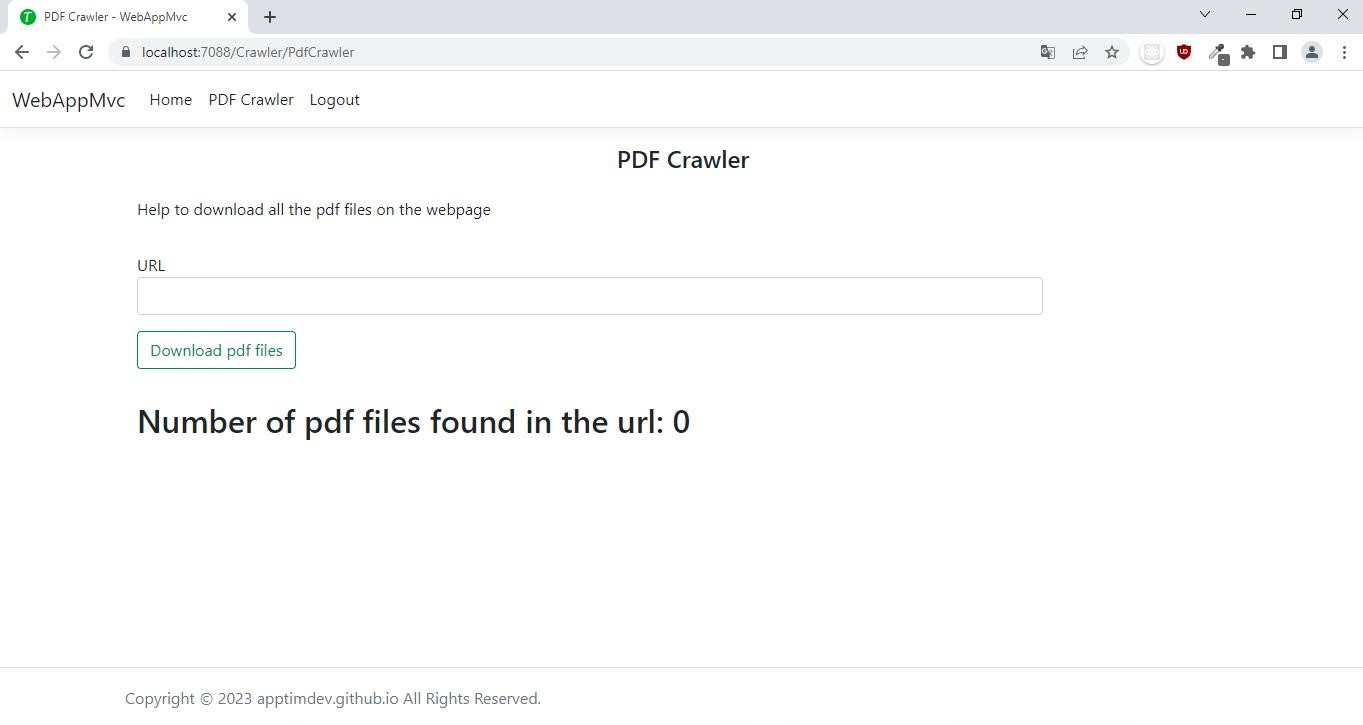
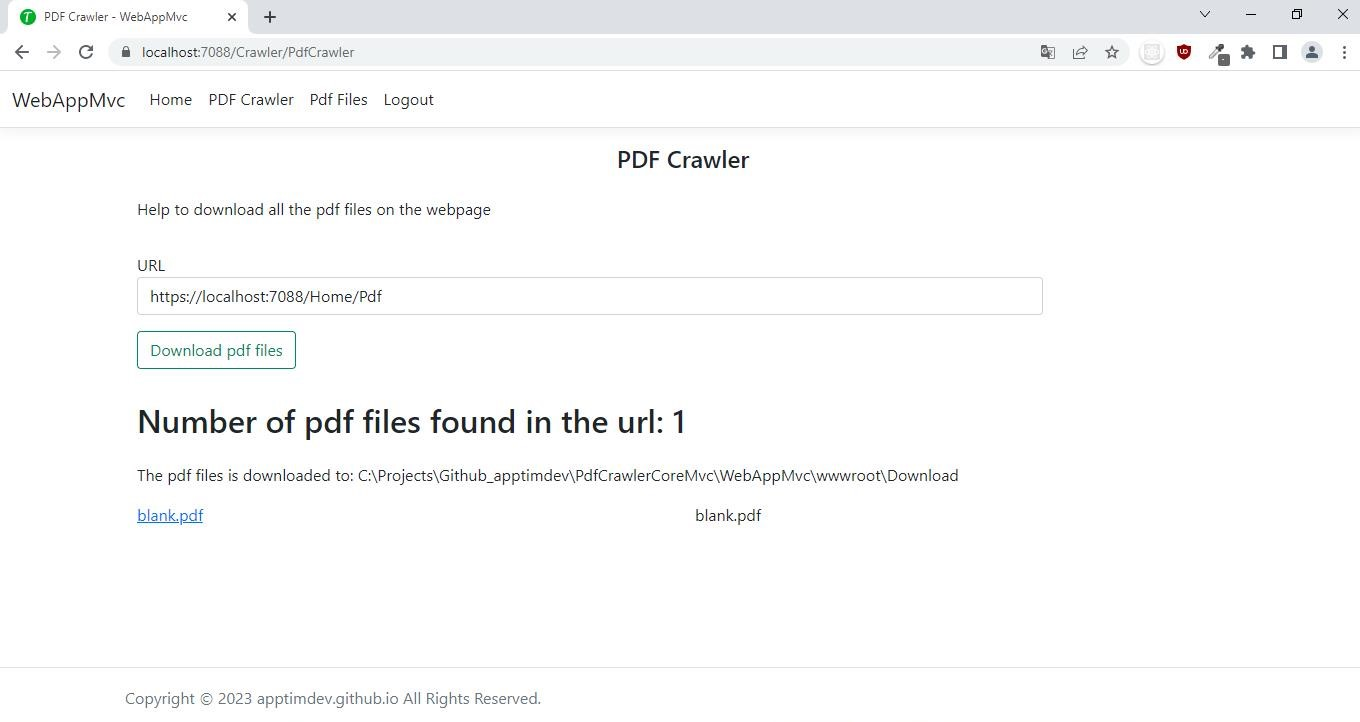
pdf

diff --git a/WebAppMvc/Helpers/Crawler.cs b/WebAppMvc/Helpers/Crawler.cs
@@ -8,13 +8,14 @@ using System.Drawing.Imaging;
 using System.IO;
 using System.Linq;
 using System.Threading.Tasks;
+using log4net;
 
 namespace WebAppMvc.Helpers
 {
     public static class Crawler
     {
         private static string _userAgent = "Mozilla/5.0 (Windows NT 10.0; Win64; x64) AppleWebKit/537.36 (KHTML, like Gecko) Chrome/102.0.0.0 Safari/537.36";
-        //private static ILog _logger = LogManager.GetLogger(System.Reflection.MethodBase.GetCurrentMethod().DeclaringType);
+        private static ILog _logger = LogManager.GetLogger(System.Reflection.MethodBase.GetCurrentMethod().DeclaringType);
         public static string GetHtml(Uri url)
         {
             StreamReader streamReader = null;
@@ -73,8 +74,8 @@ namespace WebAppMvc.Helpers
             }
             catch (Exception e)
             {
-                //_logger.Info($"DownloadImage fail, url:{url.ToString()}");
-                //_logger.Error(e);
+                _logger.Info($"DownloadImage fail, url:{url.ToString()}");
+                _logger.Error(e);
                 return null;
             }
             return result;
@@ -130,19 +131,19 @@ namespace WebAppMvc.Helpers
                     }
                     else
                     {
-                        //_logger.Info($"SaveWebImage: no image is downloaded!!");
-                        //_logger.Info($"downloadPath: {downloadPath}");
-                        //_logger.Info($"outputfilepath: {outputfilepath}");
+                        _logger.Info($"SaveWebImage: no image is downloaded!!");
+                        _logger.Info($"downloadPath: {downloadPath}");
+                        _logger.Info($"outputfilepath: {outputfilepath}");
                         throw new Exception("SaveWebImage: no image is downloaded!!");
                     }
                 }
             }
             catch (Exception e)
             {
-                //_logger.Info($"SaveWebImage fail!!");
-                //_logger.Info($"downloadPath: {downloadPath}");
-                //_logger.Info($"outputfilepath: {outputfilepath}");
-                //_logger.Error(e);
+                _logger.Info($"SaveWebImage fail!!");
+                _logger.Info($"downloadPath: {downloadPath}");
+                _logger.Info($"outputfilepath: {outputfilepath}");
+                _logger.Error(e);
                 //rethrow exception
                 throw;
             }
@@ -153,6 +154,7 @@ namespace WebAppMvc.Helpers
         {
             try
             {
+                _logger.Info("SaveWebPdf");
                 using (WebClient wc = new WebClient())
                 {
                     wc.Credentials = System.Net.CredentialCache.DefaultCredentials;
@@ -162,10 +164,10 @@ namespace WebAppMvc.Helpers
             }
             catch (Exception e)
             {
-                //_logger.Info($"SaveWebPdf fail!!");
-                //_logger.Info($"downloadPath: {downloadPath}");
-                //_logger.Info($"outputfilepath: {outputfilepath}");
-                //_logger.Error(e);
+                _logger.Info($"SaveWebPdf fail!!");
+                _logger.Info($"downloadPath: {downloadPath}");
+                _logger.Info($"outputfilepath: {outputfilepath}");
+                _logger.Error(e);
                 //rethrow exception
                 throw;
             }
@@ -187,11 +189,11 @@ namespace WebAppMvc.Helpers
                             }
                             catch (Exception e)
                             {
-                                //_logger.Info($"SaveWebPdfs Inside Parallel!!");
-                                //_logger.Info($"downloadPath: {pdf.downloadPath}");
-                                //_logger.Info($"outputfilepath: {pdf.outputfilepath}");
-                                //_logger.Error(e);
-                                //_logger.Info($"SaveWebPdfs Inside Parallel!! end");
+                                _logger.Info($"SaveWebPdfs Inside Parallel!!");
+                                _logger.Info($"downloadPath: {pdf.downloadPath}");
+                                _logger.Info($"outputfilepath: {pdf.outputfilepath}");
+                                _logger.Error(e);
+                                _logger.Info($"SaveWebPdfs Inside Parallel!! end");
                                 //rethrow exception
                                 //throw;  
                                 //throw exception only stop part of Parallel, other can still run
@@ -201,9 +203,9 @@ namespace WebAppMvc.Helpers
                     }
                     catch (Exception e)
                     {
-                        //_logger.Info($"SaveWebPdfs Inside task!!");
-                        //_logger.Error(e);
-                        //_logger.Info($"SaveWebPdfs Inside task!! end");
+                        _logger.Info($"SaveWebPdfs Inside task!!");
+                        _logger.Error(e);
+                        _logger.Info($"SaveWebPdfs Inside task!! end");
                         //rethrow exception
                         throw;  //will not throw exception outside task and be catch
                     }
@@ -212,8 +214,8 @@ namespace WebAppMvc.Helpers
             catch (Exception e)
             {
                 //cannot be catch if Inside task throw exception
-                //_logger.Info($"SaveWebPdfs fail!!");
-                //_logger.Error(e);
+                _logger.Info($"SaveWebPdfs fail!!");
+                _logger.Error(e);
                 //rethrow exception
                 throw;
             }

diff --git a/WebAppMvc/Controllers/HomeController.cs b/WebAppMvc/Controllers/HomeController.cs
@@ -1,6 +1,9 @@
 using Microsoft.AspNetCore.Mvc;
 using System.Diagnostics;
 using WebAppMvc.Models;
+using WebAppMvc.Extensions;
+using WebAppMvc.ViewModels;
+using System.IO;
 
 namespace WebAppMvc.Controllers
 {
@@ -21,10 +24,24 @@ namespace WebAppMvc.Controllers
 
         public IActionResult Pdf()
         {
+            PdfViewModel vm = new PdfViewModel();
             string webRootPath = _webHostEnvironment.WebRootPath;
             string dir = Path.Combine(webRootPath, "Download");
-
-            return View();
+            //_logger.Info(dir);
+            if (Directory.Exists(dir))
+            {
+                DirectoryInfo dirInfo = new DirectoryInfo(dir);
+                foreach (FileInfo f in dirInfo.GetFiles("*.pdf", SearchOption.TopDirectoryOnly))
+                {
+                    _logger.Info(f.FullName);
+                    _logger.Info(f.Name);
+                    PdfFile pdf = new PdfFile();
+                    pdf.FileName = f.Name;
+                    pdf.DownloadPath = $"/Download/{f.Name}";
+                    vm.PdfFiles.Add(pdf);
+                }
+            }
+            return View(vm);
         }
 
         [ResponseCache(Duration = 0, Location = ResponseCacheLocation.None, NoStore = true)]

diff --git a/WebAppMvc/Controllers/CrawlerController.cs b/WebAppMvc/Controllers/CrawlerController.cs
@@ -70,7 +70,7 @@ namespace WebAppMvc.Controllers
                                         prefix = "D" + count.ToString() + "-";
                                         innertext = node.InnerText;
                                         filename = Path.GetFileName(href);  //cannot contain some symbol e.g. /\
-                                        filepath = Path.Combine(dir, prefix + filename + ".pdf");
+                                        filepath = Path.Combine(dir, prefix + filename);
                                         if (href.IndexOf("http") < 0)
                                         {
                                             if (href.StartsWith("//"))

diff --git a/WebAppMvc/ViewModels/PdfViewModel.cs b/WebAppMvc/ViewModels/PdfViewModel.cs
@@ -1,0 +1,16 @@
+namespace WebAppMvc.ViewModels
+{
+    public class PdfViewModel
+    {
+        public List<PdfFile> PdfFiles { get; set; }
+        public PdfViewModel()
+        {
+            PdfFiles = new List<PdfFile>();
+        }
+    }
+    public class PdfFile
+    {
+        public string? FileName { get; set; }
+        public string? DownloadPath { get; set; }
+    }
+}

diff --git a/WebAppMvc/Extensions/ILoggerExtensions.cs b/WebAppMvc/Extensions/ILoggerExtensions.cs
@@ -1,0 +1,10 @@
+namespace WebAppMvc.Extensions
+{
+    public static class ILoggerExtensions
+    {
+        public static void Info(this ILogger logger, string s)
+        {
+            logger.LogInformation(s);
+        }
+    }
+}
